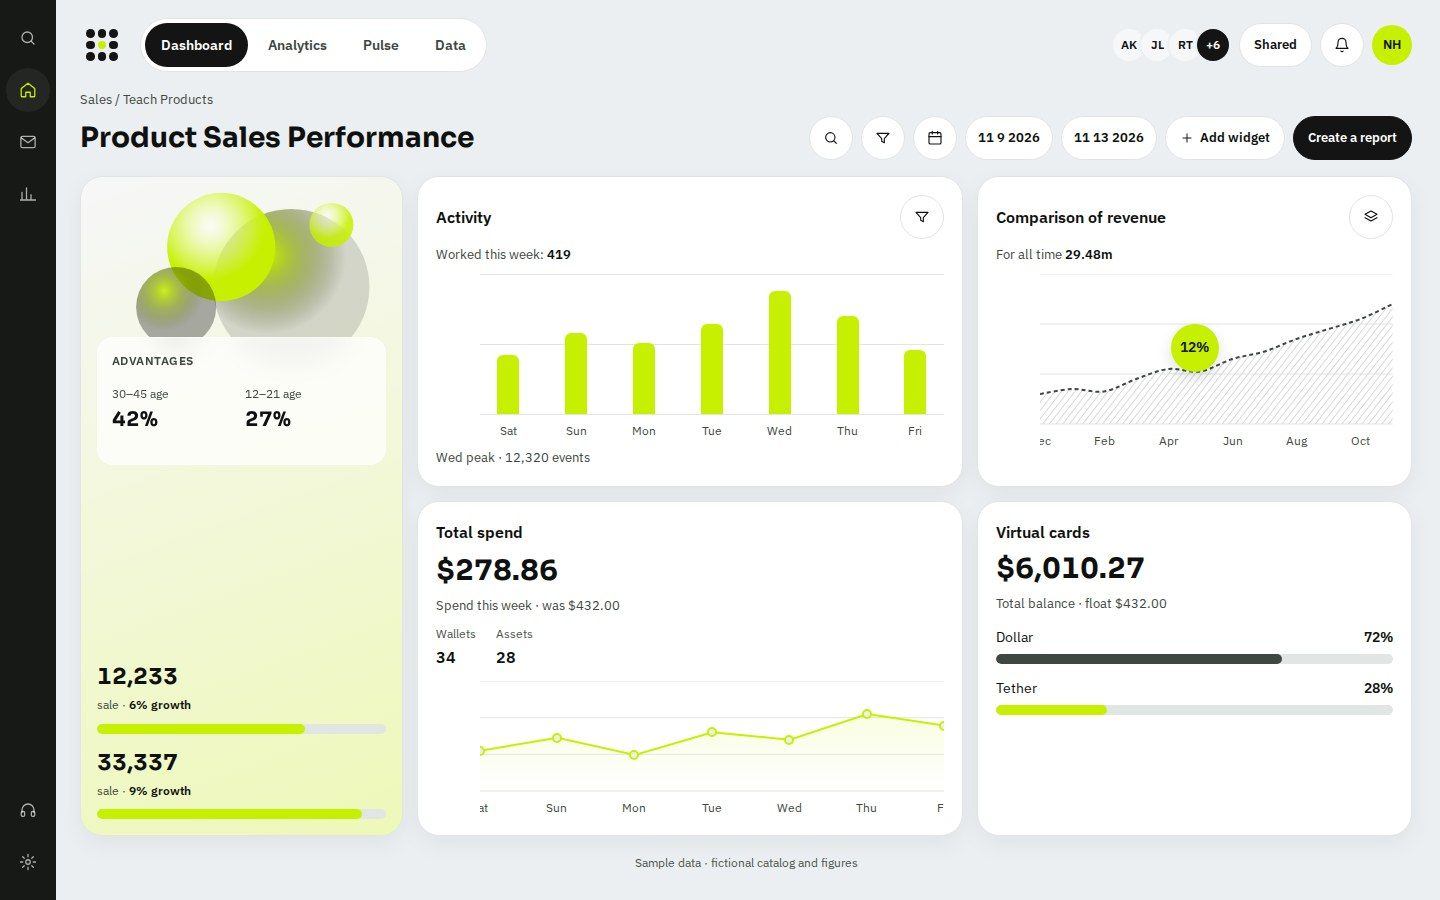
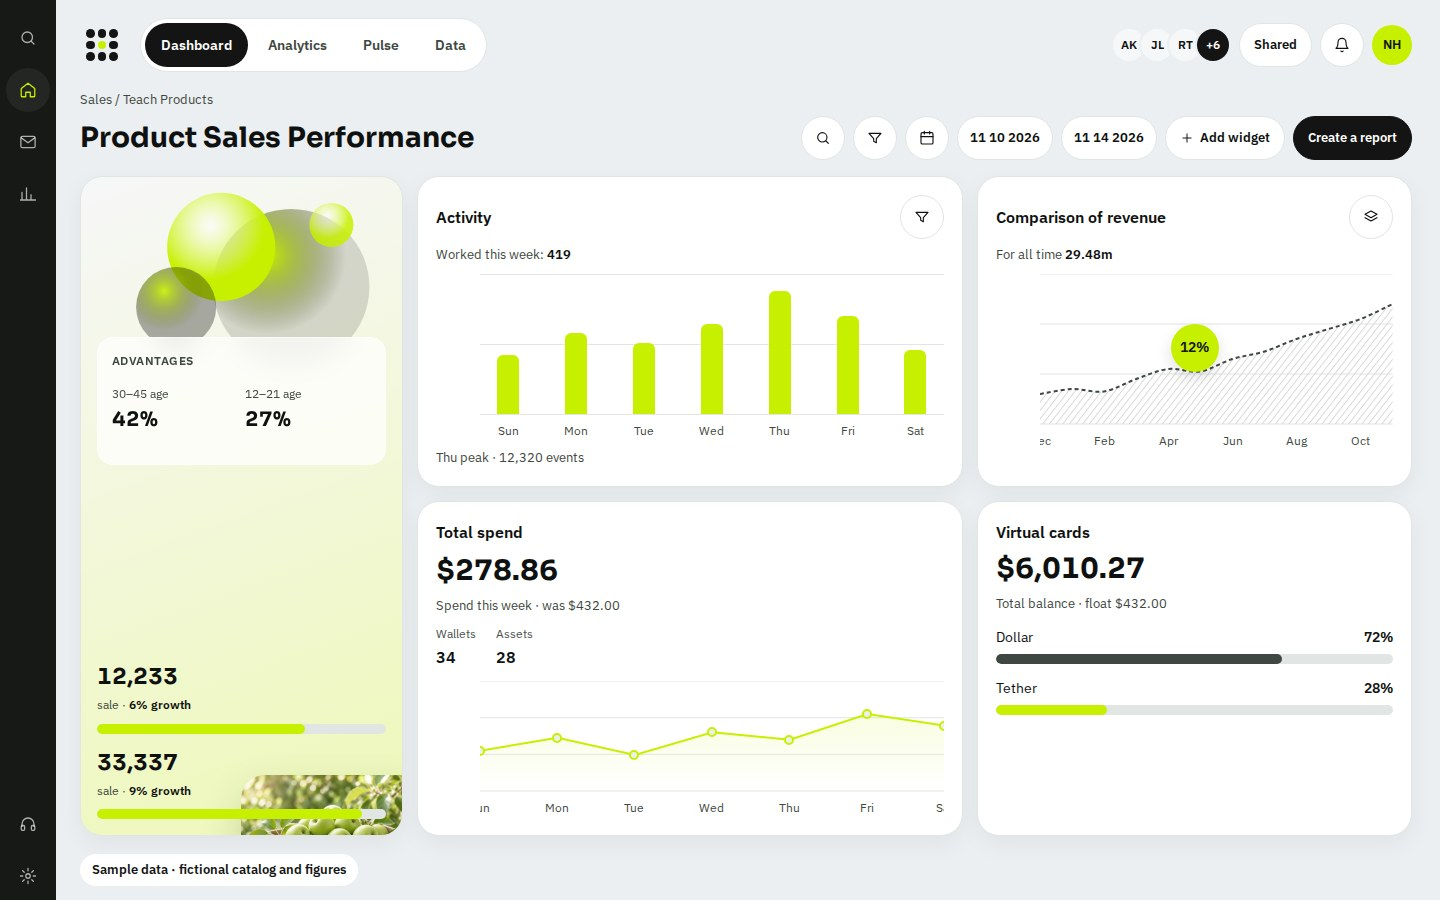
Polish dashboard 27: Orchard Sales (fidelity, pages, motion)

diff --git a/site/dashboards/orchard-sales/app.js b/site/dashboards/orchard-sales/app.js
@@ -223,9 +223,25 @@
   renderRev();
   renderSpend();
   renderVc();
-/* === DB multipage bootstrap (generated; polish pass replaces stubs) === */
+/* === DB multipage polish (auto-upgraded) === */
   (function wirePages() {
+    const reduce = matchMedia('(prefers-reduced-motion: reduce)').matches;
     const PAGES = [{"id":"overview","name":"Overview","pattern":"Dashboard"},{"id":"pipeline","name":"Pipeline","pattern":"Board"},{"id":"accounts","name":"Accounts","pattern":"List"},{"id":"settings","name":"Settings","pattern":"Settings"}];
+    const root = document.querySelector('[data-db-app]') || document.body;
+    let toastEl = document.querySelector('[data-toast]');
+    if (!toastEl) {
+      toastEl = document.createElement('div');
+      toastEl.className = 'dbp-toast';
+      toastEl.setAttribute('data-toast', '');
+      toastEl.hidden = true;
+      toastEl.setAttribute('role', 'status');
+      toastEl.setAttribute('aria-live', 'polite');
+      document.body.appendChild(toastEl);
+    }
+    function toast(msg) {
+      toastEl.textContent = msg; toastEl.hidden = false;
+      clearTimeout(toast._id); toast._id = setTimeout(() => { toastEl.hidden = true; }, 2200);
+    }
     const main = document.querySelector('main') || document.body;
     let stub = document.querySelector('[data-db-stub]');
     if (!stub) {
@@ -238,28 +254,73 @@
     function setOverviewVisible(on) {
       [...main.children].forEach((ch) => {
         if (ch === stub) return;
-        if (on) {
-          ch.hidden = false;
-          ch.removeAttribute('data-db-overview-hide');
-        } else {
-          ch.hidden = true;
-          ch.setAttribute('data-db-overview-hide', '');
-        }
+        if (on) { ch.hidden = false; ch.removeAttribute('data-db-overview-hide'); }
+        else { ch.hidden = true; ch.setAttribute('data-db-overview-hide', ''); }
       });
       stub.hidden = on;
     }
-    function renderStub(page) {
-      const rows = [
-        ['Status', 'Sample · ready'],
-        ['Records', '24'],
-        ['Updated', 'Today'],
-      ];
-      stub.innerHTML = '<h1>' + page.name + '</h1>'
-        + '<p class="db-sample">Sample data · fictional</p>'
-        + '<p>This page is part of the multi-page shell. The polish pass fills it with real ' + page.name.toLowerCase() + ' UI in the same design language as Overview.</p>'
-        + '<div class="db-stub-panel" role="list">'
-        + rows.map(([k, v]) => '<div class="db-stub-row" role="listitem"><span>' + k + '</span><strong class="num">' + v + '</strong></div>').join('')
-        + '</div>';
+    function pageHtml(page) {
+
+    if (page.id === 'pipeline') {
+      return `<section class="dbp-page" data-db-page="pipeline" aria-labelledby="p-h">
+        <h1 id="p-h">Pipeline</h1>
+        <p class="dbp-lead">Sample data · fictional.</p>
+        <div class="dbp-seg" role="group" aria-label="Pipeline state" data-dbp-tabs>
+          <button type="button" data-v="ready" aria-pressed="true">Ready</button>
+          <button type="button" data-v="loading" aria-pressed="false">Loading</button>
+          <button type="button" data-v="empty" aria-pressed="false">Empty</button>
+          <button type="button" data-v="error" aria-pressed="false">Error</button>
+        </div>
+        <div data-dbp-body></div>
+      </section>`;
+    }
+    if (page.id === 'accounts') {
+      return `<section class="dbp-page" data-db-page="accounts" aria-labelledby="p-h">
+        <h1 id="p-h">Accounts</h1>
+        <p class="dbp-lead">Sample data · fictional.</p>
+        <div class="dbp-grid"><article class="dbp-card"><div class="dbp-row"><strong>Northwind</strong><span class="dbp-chip">Active</span></div></article><article class="dbp-card"><div class="dbp-row"><strong>Kestrel</strong><span class="dbp-chip">Active</span></div></article><article class="dbp-card"><div class="dbp-row"><strong>Harbor</strong><span class="dbp-chip">Paused</span></div></article></div>
+        <button type="button" class="dbp-btn" data-dbp-action>Open accounts</button>
+      </section>`;
+    }
+    if (page.id === 'settings') {
+      return `<section class="dbp-page" data-db-page="settings" aria-labelledby="p-h">
+        <h1 id="p-h">Settings</h1>
+        <p class="dbp-lead">Sample data · fictional.</p>
+        <div class="dbp-grid"><article class="dbp-card"><div class="dbp-row"><strong>Units</strong><span class="dbp-chip">Celsius</span></div></article><article class="dbp-card"><div class="dbp-row"><strong>Eco mode</strong><span class="dbp-chip">On</span></div></article><article class="dbp-card"><div class="dbp-row"><strong>Alerts</strong><span class="dbp-chip">Push</span></div></article></div>
+        <button type="button" class="dbp-btn" data-dbp-action>Open settings</button>
+      </section>`;
+    }
+      return `<section class="dbp-page"><h1>${page.name}</h1></section>`;
+    }
+    function wirePage(page) {
+      if (page.id === 'pipeline') {
+        const body = stub.querySelector('[data-dbp-body]');
+        const paint = (state = 'ready') => {
+          if (state === 'loading') {
+            body.innerHTML = `<div class="dbp-state"><p>Loading…</p><div class="dbp-skel"></div><div class="dbp-skel"></div></div>`;
+            return;
+          }
+          if (state === 'empty') {
+            body.innerHTML = `<div class="dbp-state"><p>Nothing here yet.</p></div>`;
+            return;
+          }
+          if (state === 'error') {
+            body.innerHTML = `<div class="dbp-state"><p>Could not load.</p><button type="button" class="dbp-btn" data-retry>Retry</button></div>`;
+            stub.querySelector('[data-retry]')?.addEventListener('click', () => paint('ready'));
+            return;
+          }
+          body.innerHTML = `<div class="dbp-grid"><article class="dbp-card"><div class="dbp-row"><strong>Qualified</strong><span class="dbp-chip">14</span></div></article><article class="dbp-card"><div class="dbp-row"><strong>Proposal</strong><span class="dbp-chip">7</span></div></article><article class="dbp-card"><div class="dbp-row"><strong>Won</strong><span class="dbp-chip">3</span></div></article></div>`;
+        };
+        paint('ready');
+        const tabs = stub.querySelector('[data-dbp-tabs]');
+        tabs?.addEventListener('click', (e) => {
+          const b = e.target.closest('button[data-v]'); if (!b) return;
+          tabs.querySelectorAll('button[data-v]').forEach((x) => x.setAttribute('aria-pressed', String(x === b)));
+          paint(b.dataset.v);
+        });
+      }
+      stub.querySelector('[data-dbp-action]')?.addEventListener('click', () => toast(page.name + ' · sample'));
+      stub.querySelector('[data-save-settings], [data-dbp-action]')?.addEventListener('click', () => {});
     }
     document.querySelectorAll('a[href]').forEach((a) => {
       const label = (a.textContent || '').replace(/\s+/g, ' ').trim().toLowerCase();
@@ -269,15 +330,42 @@
         || (label === 'dashboard' && p.id === 'overview'));
       if (hit) a.setAttribute('href', '#/' + hit.id);
     });
+    // map common rail buttons if present
+    document.querySelectorAll('[data-rail] button[data-v]').forEach((b) => {
+      const map = { home: 'overview', climate: 'rooms', fan: 'devices', eco: 'energy', settings: 'settings' };
+      const id = map[b.dataset.v] || b.dataset.v;
+      if (PAGES.some((p) => p.id === id)) {
+        b.addEventListener('click', () => { location.hash = '#/' + id; });
+      }
+    });
+    if (window.DB?.onVisible) {
+      window.DB.onVisible(root, (visible) => {
+        document.documentElement.dataset.motionPaused = visible ? '' : '1';
+      });
+    }
     if (!window.DB || typeof window.DB.route !== 'function') {
       console.error('DB.route missing — is ../_shared/frame.js loaded before app.js?');
       return;
     }
+    const seen = new Set();
     window.DB.route(PAGES, (id, page) => {
-      if (id === PAGES[0].id) setOverviewVisible(true);
-      else { setOverviewVisible(false); renderStub(page); }
+      if (id === PAGES[0].id) {
+        setOverviewVisible(true);
+        if (!seen.has('overview')) {
+          seen.add('overview');
+          document.querySelectorAll('.os-reveal, .dbp-reveal').forEach((el, i) => {
+            el.style.setProperty('--reveal-delay', (reduce ? 0 : 40 * i) + 'ms');
+            el.classList.add('os-reveal-in', 'dbp-reveal-in');
+          });
+        }
+      } else {
+        setOverviewVisible(false);
+        stub.innerHTML = pageHtml(page);
+        wirePage(page);
+      }
+      seen.add(id);
     });
   })();
-/* === /DB multipage bootstrap === */
+/* === /DB multipage polish === */
   document.documentElement.dataset.ready = 'true';
 })();

diff --git a/site/dashboards/orchard-sales/style.css b/site/dashboards/orchard-sales/style.css
@@ -176,3 +176,62 @@ body { background: var(--bg); color: var(--text); font-family: var(--font-sans);
 }
 .os-plot { overflow: hidden; }
 .os-hit button { min-width: 44px; }
+
+/* --- polish multipage + motion (shared) --- */
+
+.dbp-page { background: #ffffff; color: #141414; }
+.dbp-lead, .dbp-chip, .dbp-card { background: #f4f4f6; color: #141414; }
+.dbp-toast { background: #ffffff; color: #141414; }
+.db-sample { display:inline-block !important; padding: 6px 12px !important; border-radius: 999px !important; background: #ffffff !important; color: #141414 !important; font-weight: 650 !important; font-size: 13px !important; }
+
+.dbp-page {
+  margin: 12px 0 20px; padding: 20px; border-radius: 18px;
+  background: var(--surface, #fff); color: var(--text, #111);
+  box-shadow: 0 10px 30px rgb(0 0 0 / 0.08); display: grid; gap: 14px; max-width: 960px;
+}
+.dbp-page h1 { margin: 0; font-size: clamp(26px, 3vw, 34px); }
+.dbp-lead {
+  margin: 0; font-weight: 550; color: var(--text, #111);
+  display: inline-block; padding: 6px 10px; border-radius: 10px;
+  background: var(--surface-2, #f3f3f3);
+}
+.dbp-grid { display: grid; gap: 12px; grid-template-columns: repeat(auto-fill, minmax(200px, 1fr)); }
+.dbp-card { padding: 14px 16px; border-radius: 14px; background: var(--surface-2, #f6f6f6); }
+.dbp-row { display: flex; align-items: center; justify-content: space-between; gap: 10px; }
+.dbp-chip {
+  display: inline-flex; padding: 2px 8px; border-radius: 999px; font-size: 13px; font-weight: 650;
+  background: var(--surface, #fff); color: var(--text, #111); border: 1px solid rgb(0 0 0 / 0.08);
+}
+.dbp-seg { display: inline-flex; flex-wrap: wrap; gap: 2px; padding: 4px; border-radius: 999px; background: var(--surface-2, #eee); }
+.dbp-seg button { border: 0; background: none; min-height: 36px; padding: 0 12px; border-radius: 999px; font-weight: 650; color: var(--text-muted, #555); }
+.dbp-seg button[aria-pressed="true"] { background: var(--surface, #fff); color: var(--text, #111); }
+.dbp-btn { display: inline-flex; align-items: center; min-height: 44px; padding: 0 16px; border: 0; border-radius: 999px; font-weight: 650; background: #1a1f2e; color: #ffffff; }
+.dbp-state { padding: 16px; border-radius: 14px; background: var(--surface-2, #f3f3f3); display: grid; gap: 10px; color: var(--text-muted, #555); }
+.dbp-skel { height: 44px; border-radius: 10px; background: linear-gradient(90deg, #e8e8e8, #f7f7f7, #e8e8e8); background-size: 200% 100%; animation: dbp-skel 1.2s linear infinite; }
+.dbp-toast { position: fixed; right: 20px; bottom: 20px; z-index: 50; min-height: 44px; padding: 12px 16px; border-radius: 12px; background: var(--surface, #fff); color: var(--text, #111); box-shadow: 0 12px 32px rgb(0 0 0 / 0.18); max-width: min(360px, calc(100vw - 32px)); }
+.dbp-toast[hidden] { display: none !important; }
+.dbp-reveal { opacity: 0; transform: translateY(8px); }
+.dbp-reveal-in { opacity: 1; transform: none; transition: opacity 280ms ease, transform 280ms ease; transition-delay: var(--reveal-delay, 0ms); }
+@keyframes dbp-skel { to { background-position: -200% 0; } }
+[data-motion-paused="1"] .dbp-skel { animation-play-state: paused; }
+@media (prefers-reduced-motion: reduce) {
+  .dbp-reveal, .dbp-reveal-in { opacity: 1; transform: none; transition: none; }
+  .dbp-skel { animation: none !important; }
+}
+
+/* forced AA surfaces for multipage stubs (all variants) */
+.dbp-page { background: #ffffff !important; color: #141414 !important; }
+.dbp-page h1 { color: #141414 !important; }
+.dbp-lead, .dbp-card, .dbp-chip, .dbp-state, .dbp-seg { background: #f3f4f7 !important; color: #141414 !important; border-color: #d7dae2 !important; }
+.dbp-seg button { color: #3a3f4d !important; }
+.dbp-seg button[aria-pressed="true"] { background: #ffffff !important; color: #141414 !important; }
+.dbp-btn { background: #1a1f2e !important; color: #ffffff !important; }
+.dbp-card strong, .dbp-row, .dbp-page p { color: #141414 !important; }
+
+/* ORCHARD MEDIA */
+.os-product { position: relative; overflow: hidden; }
+.os-produce {
+  position: absolute; right: -8%; bottom: -12%; width: min(58%, 280px); height: auto;
+  object-fit: cover; border-radius: 24px; opacity: 0.92; pointer-events: none;
+  box-shadow: 0 18px 40px rgb(20 40 20 / 0.18);
+}

diff --git a/site/dashboards/orchard-sales/index.html b/site/dashboards/orchard-sales/index.html
@@ -13,9 +13,10 @@
   <link rel="stylesheet" href="../_shared/base.css">
   <link rel="stylesheet" href="style.css">
   <script src="../_shared/frame.js"></script>
+  <script src="../_vendor/motion@12.23.12/motion.js"></script>
 </head>
 <body>
-  <div class="os">
+  <div class="os" data-db-app>
     <aside class="os-rail" aria-label="Primary">
       <a class="os-rail-btn" href="#" aria-label="Search"><span data-icon="search"></span></a>
       <a class="os-rail-btn" href="#" aria-current="page" aria-label="Home"><span data-icon="home"></span></a>
@@ -59,6 +60,7 @@
       <main class="os-grid">
         <section class="os-card os-product" aria-labelledby="os-pro-h">
           <div class="os-spheres" data-spheres aria-hidden="true"></div>
+          <img class="os-produce" src="media/apples.webp" width="640" height="480" alt="" decoding="async" aria-hidden="true">
           <div class="os-glass">
             <p class="os-k">Advantages</p>
             <dl class="os-adv"><div><dt>30–45 age</dt><dd class="num" data-a1>42%</dd></div><div><dt>12–21 age</dt><dd class="num" data-a2>27%</dd></div></dl>
